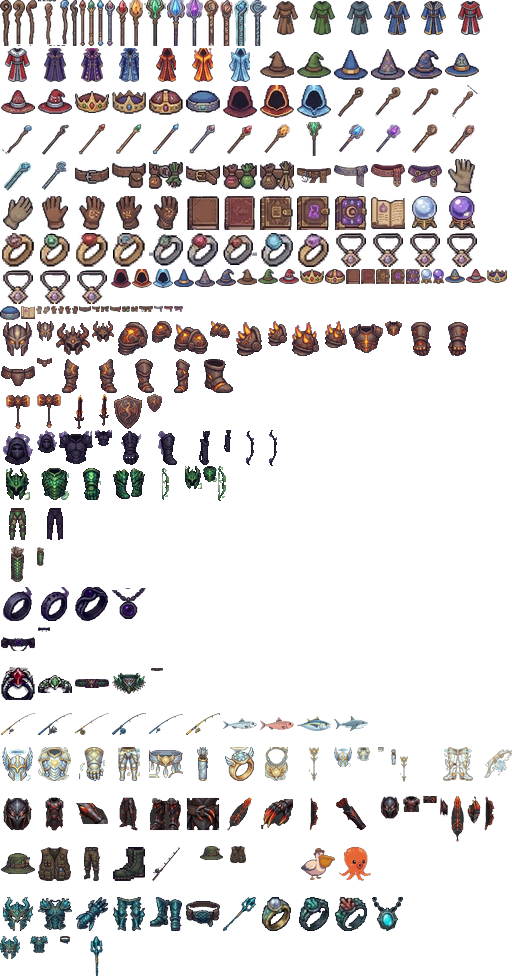
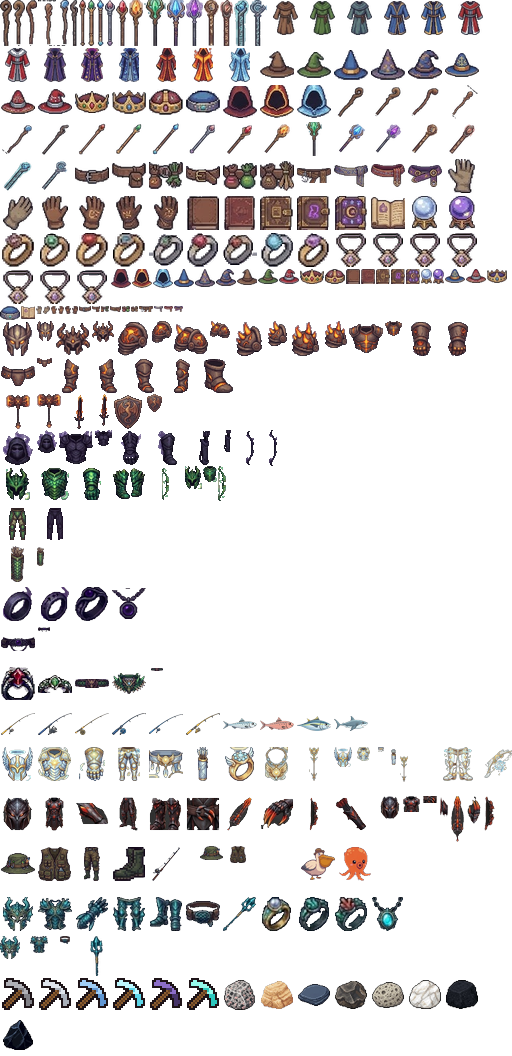
Add files via upload

diff --git a/eldoria/public/ui2.js b/eldoria/public/ui2.js
@@ -63,17 +63,17 @@
       if (!n) return null; got += g; tot += n;
       const h = el('h3', '', `${d.icon} ${d.name} · nivel ${d.lv} `); h.append(el('small', '', `${g} / ${n}`)); sec.append(h, grid); return sec;
     }).filter(Boolean);
-    const fdef = G.fish && G.fish.defs && G.fish.defs.col;
-    if (fdef) {                                                                      // sección de pesca (peces, tesoros, mascotas y set raro)
-      const sec = el('div', 'colsec'), have3 = colData.pesca || {}, grid = el('div', 'colgrid'); let g = 0;
-      for (const [id, ch] of fdef) {
+    for (const [title, defsCol, key] of [['⛏ Minería', G.mine && G.mine.defs && G.mine.defs.col, 'mineria'], ['🎣 Pesca', G.fish && G.fish.defs && G.fish.defs.col, 'pesca']]) {   // secciones de oficios (peces, rocas, gemas, mascotas...)
+      if (!defsCol) continue;
+      const sec = el('div', 'colsec'), have3 = colData[key] || {}, grid = el('div', 'colgrid'); let g = 0;
+      for (const [id, ch] of defsCol) {
         const it = G.items[id]; if (!it) continue; const c = have3[id], tile = el('div', 'coltile' + (c ? ' on' : ''));
         const ic = el('div', 'ico'); ic.append(X.iconNode ? X.iconNode(id) : it.icon || '?'); tile.append(ic, el('small', '', c ? it.name : '???'));
         if (c) { g++; tile.append(el('b', '', '×' + c)); }
-        tile.title = c ? `${it.name} — conseguido ${c} ${c === 1 ? 'vez' : 'veces'}` : ch >= 1 ? 'Aún no lo has pescado' : `Aún no te ha salido (${(ch * 100).toFixed(2)} % al pescar)`;
+        tile.title = c ? `${it.name} — conseguido ${c} ${c === 1 ? 'vez' : 'veces'}` : ch >= 1 ? 'Aún no lo has conseguido' : `Aún no te ha salido (${(ch * 100).toFixed(2)} %)`;
         grid.append(tile);
       }
-      const h = el('h3', '', '🎣 Pesca '); h.append(el('small', '', `${g} / ${fdef.length}`)); sec.append(h, grid); secs.unshift(sec);
+      const h = el('h3', '', title + ' '); h.append(el('small', '', `${g} / ${defsCol.length}`)); sec.append(h, grid); secs.unshift(sec);
     }
     b.append(el('p', 'colhead', `Objetos de jefes que ya te han salido: ${got} / ${tot}`), ...secs);
     if (!secs.length) b.append(el('p', '', 'Aún no hay jefes registrados.'));
@@ -87,7 +87,7 @@
     st.append(n); setTimeout(() => n.classList.add('out'), 4200); setTimeout(() => { n.remove(); colNext(); }, 4800);
   };
   X.handlers.colnew = (m) => { colQ.push(m); if (!colBusy) colNext(); };
-  wB.onOpen = () => { send({ t: 'col' }); send({ t: 'fish' }); renderCol(); };
+  wB.onOpen = () => { send({ t: 'col' }); send({ t: 'fish' }); send({ t: 'mine' }); renderCol(); };
   X.handlers.col = (m) => { colData = m.v || {}; if (!wB.m.hidden) renderCol(); };
 
   /* ============================ MISIONES ============================ */
@@ -449,7 +449,7 @@
   wF.onOpen = () => { send({ t: 'fish' }); renderFish(); };
 
   /* ---------- atajos ---------- */
-  const KEYS = { n: 'map', q: 'q', l: 'a', g: 's', r: 'r', p: 'm', f: 'c', b: 'b', o: 'o' };
+  const KEYS = { u: 'u', n: 'map', q: 'q', l: 'a', g: 's', r: 'r', p: 'm', f: 'c', b: 'b', o: 'o' };
   X.on('key', (k) => {
     if (KEYS[k]) { toggle(KEYS[k]); return true; }
     if (k === '1' || k === '2' || k === '3') { useSkill(+k - 1); return true; }
@@ -544,6 +544,11 @@
       const d = xi.nodes[type]; if (!d) continue;
       const cx = X.sxOf(x) + TS / 2, cy = X.syOf(y) + TS / 2, pulse = 1 + Math.sin(now / 420 + x * 3 + y) * 0.06;
       c.fillStyle = 'rgba(0,0,0,.3)'; c.beginPath(); c.ellipse(cx, cy + 10, 10, 3.5, 0, 0, 7); c.fill();
+      if (d.spr && X.SPR[d.spr] && X.sprReady()) {                                   // rocas de minería (sprites)
+        X.drawSpriteS(c, d.spr, 0, cx, cy + 12, false, 1.1);
+        if (G.mine && d.lvl > G.mine.lv) { c.font = 'bold 9px sans-serif'; c.textAlign = 'center'; c.fillStyle = '#ffb4a0'; c.strokeStyle = '#000'; c.lineWidth = 2.5; c.strokeText('⛏' + d.lvl, cx, cy - 8); c.fillText('⛏' + d.lvl, cx, cy - 8); }
+        continue;
+      }
       c.save(); c.translate(cx, cy + 2); c.scale(pulse, pulse); c.font = '20px "Segoe UI Emoji","Apple Color Emoji","Noto Color Emoji",sans-serif'; c.textAlign = 'center'; c.textBaseline = 'middle'; c.fillText(d.icon, 0, 0); c.restore();
       if (Math.sin(now / 300 + x * 7) > 0.88) { c.fillStyle = '#fff'; c.fillRect(cx + 7, cy - 9, 2, 2); }
     }
@@ -583,6 +588,66 @@
     if (cheb(G.me.x, G.me.y, gTarget.x, gTarget.y) <= 1) { send({ t: 'gather', id: gTarget.id }); gTarget.until = performance.now() + 900; }
   }
   setInterval(tickGather, 350);
+
+  /* ============================ MINERÍA ============================ */
+  const wMn = win('u', '⛏ Minería', true); mkBtn('⛏', 'Minería', 'u', 'u');
+  const msd = G.mine = { lv: 1, xp: 0, lo: 0, hi: 1, c: {}, defs: null };
+  const GEM_IC = { rubi: '🔴', zafiro: '🔵', esmeralda: '🟢', topacio: '🟡', amatista: '🟣', opalo: '🟠', diamante: '💎' };
+  const bestPickId = () => {
+    let best = '', rq = -1; const picks = (msd.defs && msd.defs.picks) || {};
+    for (const it of G.inv || []) { const r = it && picks[it[0]]; if (r && r.req <= msd.lv && r.req > rq) { rq = r.req; best = it[0]; } }
+    return best;
+  };
+  const mineLi = document.querySelector('#skills li[data-sk="mine"]');
+  function syncMineRow() {
+    if (!mineLi) return; const max = msd.defs ? msd.defs.max : 320, hi = msd.hi > msd.lo ? msd.hi : msd.lo + 1;
+    mineLi.querySelector('b').textContent = msd.lv; mineLi.title = `Nivel de minería ${msd.lv} / ${max} (clic para abrir la ventana de minería)`;
+    mineLi.querySelector('.bar i').style.width = (msd.lv >= max ? 100 : Math.max(0, Math.min(100, (msd.xp - msd.lo) / (hi - msd.lo) * 100))) + '%';
+  }
+  if (mineLi) { mineLi.style.cursor = 'pointer'; mineLi.addEventListener('click', () => toggle('u')); }
+  function renderMine() {
+    const b = wMn.body; b.textContent = ''; const d = msd.defs; if (!d) { b.append(el('p', '', 'Cargando…')); return; }
+    const pct = msd.lv >= d.max ? 100 : Math.max(0, Math.min(100, (msd.xp - msd.lo) / Math.max(1, msd.hi - msd.lo) * 100));
+    b.append(el('p', 'colhead', `Nivel de minería ${msd.lv} / ${d.max}  ·  ${fmt(msd.xp)} xp`));
+    const bar = el('div', 'fbarx'), fill = el('div', 'fbarf'); fill.style.width = pct + '%'; bar.append(fill); b.append(bar);
+    b.append(el('p', 'fhint', 'Compra un pico a Boris el Mercader (ciudad) y haz clic en una roca del mapa: caminarás hasta ella y la picarás. Cada roca pide un nivel de minería. Mejores picos minan más rápido, dan más piedra y atraen más gemas. Las gemas se engarzan en las ranuras de armas y armaduras (en una zona segura).'));
+    b.append(el('h3', '', 'Rocas y registro'));
+    const g = el('div', 'colgrid');
+    for (const id of d.order) {
+      const r = d.rocks[id], n = msd.c[id] || 0, ok = msd.lv >= r.lvl, tile = el('div', 'coltile' + (n ? ' on' : ''));
+      const ic = el('div', 'ico'); ic.append(X.iconNode ? X.iconNode(id) : '🪨'); tile.append(ic, el('small', '', n || ok ? r.name : '???'), el('small', '', ok ? `Nv ${r.lvl}` : `🔒 Nv ${r.lvl}`));
+      if (n) tile.append(el('b', '', '×' + n));
+      tile.title = `${r.name} · minería ${r.lvl} · ${r.xp} xp · gema ${(r.gem * 100).toFixed(1)}% (base) · ${r.zones.join(', ')}`;
+      g.append(tile);
+    }
+    b.append(g);
+    b.append(el('h3', '', 'Dónde minar'));
+    for (const id of d.order) {
+      const r = d.rocks[id], ok = msd.lv >= r.lvl, row = el('p', 'frow' + (ok ? '' : ' flock')), ic = el('span', 'fricon'); ic.append(X.iconNode ? X.iconNode(id) : '🪨');
+      row.append(ic, el('b', '', `${r.name} (Nv ${r.lvl}): `), r.zones.join(' · '), el('small', '', `  ·  gemas: ${r.pool.filter((v, i, a) => a.indexOf(v) === i).map((q) => GEM_IC[q] || q).join(' ')}`)); b.append(row);
+    }
+    b.append(el('h3', '', 'Gemas encontradas'));
+    const gg = el('div', 'colgrid');
+    for (const id of ['rubi', 'zafiro', 'esmeralda', 'topacio', 'amatista', 'opalo', 'diamante']) {
+      const n = msd.c[id] || 0, tile = el('div', 'coltile' + (n ? ' on' : '')), ic = el('div', 'ico'); ic.append(X.iconNode ? X.iconNode(id) : GEM_IC[id]);
+      tile.append(ic, el('small', '', n ? iname(id) : '???')); if (n) tile.append(el('b', '', '×' + n)); tile.title = (G.gems && G.gems[id] ? G.gems[id].desc : '') || iname(id); gg.append(tile);
+    }
+    b.append(gg);
+    b.append(el('h3', '', 'Picos'));
+    for (const [id, r] of Object.entries(d.picks)) { const ok = msd.lv >= r.req, row = el('p', 'frow' + (ok ? '' : ' flock')), ic = el('span', 'fricon'); ic.append(X.iconNode ? X.iconNode(id) : '⛏'); row.append(ic, `${r.name} — minería ${r.req} · velocidad ${Math.round(100 / r.speed)}% · gemas +${Math.round(r.gem * 100)}% · piedra extra ${Math.round(r.extra * 100)}% · ${fmt(r.price)} 🪙${have(id) ? ' ✔ lo tienes' : ''}`); b.append(row); }
+  }
+  X.handlers.mine = (m) => { Object.assign(msd, m); if (m.defs) msd.defs = m.defs; syncMineRow(); if (!wMn.m.hidden) renderMine(); if (!wB.m.hidden) renderCol(); };
+  wMn.onOpen = () => { send({ t: 'mine' }); renderMine(); };
+  // al picar: polvo y esquirlas de la roca + el pico en la mano (se balancea mientras minas)
+  X.on('fx', (f) => { if (f.k === 'mn') { X.burst(f.x, f.y, 'stone', 16, { sp: 4, up: 3, g: 5, life: 0.55, size: 2.6 }); X.ring(f.x, f.y, 'stone', 300, 18, 3); } });
+  const pkIc = {};
+  X.on('draw', (c, now) => {
+    if (!gTarget || !G.me || performance.now() > gTarget.until || cheb(G.me.x, G.me.y, gTarget.x, gTarget.y) > 1) return;
+    const id = bestPickId(); if (!id || !X.iconNode) return; const me = G.ents.get(G.id); if (!me) return;
+    const ic = (pkIc[id] && pkIc[id].width ? pkIc[id] : (pkIc[id] = X.iconNode(id))); if (!ic || ic.tagName !== 'CANVAS' || !ic.width) return;
+    const TS = X.TS, dir = gTarget.x < me.x ? -1 : 1, cx = X.sxOf(me.rx) + TS / 2 + dir * 5, cy = X.syOf(me.ry) + TS / 2 + 3, ang = -0.5 + (Math.sin(now / 95) * 0.5 + 0.5) * 1.5, k = 0.8;
+    c.save(); c.translate(cx, cy); c.scale(dir, 1); c.rotate(ang); c.imageSmoothingEnabled = false; c.drawImage(ic, -4 * k, -31 * k, 36 * k, 36 * k); c.restore();
+  });
 
   /* ============================ EFECTOS DE HABILIDADES ============================ */
   X.on('fx', (f) => {

diff --git a/eldoria/game/mining.js b/eldoria/game/mining.js
@@ -1,0 +1,100 @@
+'use strict';
+/**
+ * Minería: picos + rocas repartidas por el mapa (granito, pizarra, arenisca, basalto, obsidiana, mármol, pedernal y pómez).
+ * Habilidad propia (nivel 1-320), cada roca pide un nivel y da piedra, experiencia y la posibilidad de encontrar gemas
+ * para engarzar en las armas y el equipo. Los picos mejores minan más rápido y atraen más gemas.
+ */
+const { skillFromXp, skillXpFor } = require('./skills');
+const MINE_MAX = 320, XP_SCALE = 20;
+const mineLevel = (xp) => Math.min(MINE_MAX, skillFromXp(Math.max(0, xp) * XP_SCALE));
+const rnd = (a, b) => a + Math.floor(Math.random() * (b - a + 1));
+
+// roca: nivel de minería, experiencia, zonas donde aparece, cuántas, reaparición, probabilidad de gema y gemas posibles [gema, peso]
+const ROCKS = {
+  granito:   { name: 'Granito Rosado',    lvl: 1,   xp: 12,  zones: ['prado', 'colinas', 'bosque'],                     n: 42, respawn: 70000, gem: 0.03,  sell: 14,  pool: [['rubi', 10], ['zafiro', 10], ['esmeralda', 10], ['topacio', 10]] },
+  arenisca:  { name: 'Arenisca Dorada',   lvl: 1,   xp: 12,  zones: ['dunas', 'sabana', 'playa'],                       n: 42, respawn: 70000, gem: 0.03,  sell: 14,  pool: [['rubi', 10], ['zafiro', 10], ['esmeralda', 10], ['topacio', 10]] },
+  pizarra:   { name: 'Pizarra Azul',      lvl: 30,  xp: 60,  zones: ['pantano', 'catacumbas', 'minas', 'cumbres'],      n: 36, respawn: 80000, gem: 0.035, sell: 45,  pool: [['rubi', 10], ['zafiro', 10], ['esmeralda', 10], ['topacio', 10], ['amatista', 2]] },
+  pedernal:  { name: 'Pedernal Oscuro',   lvl: 60,  xp: 140,  zones: ['selva', 'bosque', 'abismo', 'minas'],             n: 32, respawn: 85000, gem: 0.04,  sell: 95,  pool: [['rubi', 10], ['zafiro', 10], ['esmeralda', 10], ['topacio', 10], ['amatista', 4]] },
+  pomez:     { name: 'Piedra Pómez',      lvl: 90,  xp: 260, zones: ['volcan', 'pantano', 'playa'],                     n: 30, respawn: 90000, gem: 0.045, sell: 170, pool: [['rubi', 10], ['zafiro', 10], ['esmeralda', 10], ['topacio', 10], ['amatista', 5], ['opalo', 1]] },
+  marmol:    { name: 'Mármol Blanco',     lvl: 120,  xp: 450, zones: ['cumbres', 'fortaleza', 'piramide', 'colinas'],    n: 28, respawn: 95000, gem: 0.05,  sell: 320, pool: [['rubi', 8], ['zafiro', 8], ['esmeralda', 8], ['topacio', 8], ['amatista', 6], ['opalo', 2], ['diamante', 1]] },
+  basalto:   { name: 'Basalto Negro',     lvl: 170,  xp: 800, zones: ['volcan', 'minas', 'piramide', 'abismo'],          n: 26, respawn: 100000, gem: 0.055, sell: 520, pool: [['amatista', 8], ['opalo', 3], ['diamante', 2], ['rubi', 5], ['zafiro', 5], ['esmeralda', 5]] },
+  obsidiana: { name: 'Obsidiana',         lvl: 220, xp: 1500, zones: ['cueva_arana', 'cueva', 'cueva_jade', 'cueva_nube', 'cueva_mar'], n: 18, respawn: 120000, gem: 0.07, sell: 900, pool: [['amatista', 6], ['opalo', 5], ['diamante', 4]] },
+};
+const ORDER = ['granito', 'arenisca', 'pizarra', 'pedernal', 'pomez', 'marmol', 'basalto', 'obsidiana'];
+// picos: nivel de minería para usarlos, velocidad (menos = más rápido), bonus de gemas y de piedra extra
+const PICKS = {
+  pico_piedra:    { name: 'Pico de Piedra',    spr: 'pk_piedra',    req: 1,   speed: 1.0,  gem: 0,    extra: 0,    price: 150 },
+  pico_hierro:    { name: 'Pico de Hierro',    spr: 'pk_hierro',    req: 30,  speed: 0.9,  gem: 0.1,  extra: 0.05, price: 900 },
+  pico_acero:     { name: 'Pico de Acero',     spr: 'pk_acero',     req: 60,  speed: 0.8,  gem: 0.2,  extra: 0.1,  price: 3200 },
+  pico_cristal:   { name: 'Pico de Cristal',   spr: 'pk_cristal',   req: 120,  speed: 0.7,  gem: 0.35, extra: 0.15, price: 9000 },
+  pico_obsidiana: { name: 'Pico de Obsidiana', spr: 'pk_obsidiana', req: 180,  speed: 0.6,  gem: 0.5,  extra: 0.2,  price: 26000 },
+  pico_abismo:    { name: 'Pico del Abismo',   spr: 'pk_abismo',    req: 240, speed: 0.5,  gem: 0.75, extra: 0.3,  price: 70000 },
+};
+const RARE_GEMS = new Set(['amatista', 'opalo', 'diamante']);
+const GEM_ICON = { rubi: '🔴', zafiro: '🔵', esmeralda: '🟢', topacio: '🟡', amatista: '🟣', opalo: '🟠', diamante: '💎' };
+
+function build(ITEMS_, SHOPS) {
+  const NODES = require('./extra').NODES;
+  for (const id of ORDER) {
+    const r = ROCKS[id];
+    ITEMS_[id] = { name: r.name, icon: '🪨', spr: 'k_' + id, type: 'misc', stack: true, sell: r.sell };
+    NODES['roca_' + id] = { icon: '🪨', name: r.name, rock: id, spr: 'rock_' + id, lvl: r.lvl, give: [[id, 1, 2]], zones: r.zones, n: r.n, respawn: r.respawn, xp: r.xp, gem: r.gem };
+  }
+  for (const [id, k] of Object.entries(PICKS)) ITEMS_[id] = { name: `${k.name} (minería ${k.req})`, icon: '⛏', spr: k.spr, type: 'misc', pick: 1, price: k.price, sell: Math.round(k.price / 4) };
+  SHOPS.boris.push(...Object.keys(PICKS));
+}
+
+module.exports = { build, ROCKS, PICKS, ORDER, MINE_MAX, install(Game) {
+  const { ITEMS, GEMS } = require('./data');
+  const world = require('./world');
+  const P = Game.prototype;
+  const have = (p, id) => p.inv.reduce((n, it) => n + (it && it.id === id ? it.qty : 0), 0);
+  const lvOf = (p) => mineLevel(p.ext.mine.xp);
+  const bestPick = (p, lv) => { let best = null; for (const id of Object.keys(PICKS)) if (have(p, id) && PICKS[id].req <= lv && (!best || PICKS[id].req > PICKS[best].req)) best = id; return best; };
+  const colList = () => ORDER.map((id) => [id, 1]).concat(['rubi', 'zafiro', 'esmeralda', 'topacio', 'amatista', 'opalo', 'diamante'].map((g) => [g, g === 'opalo' || g === 'diamante' ? 0.01 : 0.03]));
+
+  P.mineView = function (p) {
+    const m = p.ext.mine, lv = lvOf(p), rocks = {};
+    for (const [id, r] of Object.entries(ROCKS)) rocks[id] = { name: r.name, lvl: r.lvl, xp: r.xp, gem: r.gem, zones: r.zones.map((z) => (world.zoneById(z) || { name: z }).name), pool: r.pool.map((q) => q[0]) };
+    return { t: 'mine', lv, xp: m.xp, lo: Math.ceil(skillXpFor(lv) / XP_SCALE), hi: lv >= MINE_MAX ? Math.ceil(skillXpFor(lv) / XP_SCALE) : Math.ceil(skillXpFor(lv + 1) / XP_SCALE), c: m.c,
+      defs: { rocks, picks: PICKS, order: ORDER, max: MINE_MAX, scale: XP_SCALE, col: colList() } };
+  };
+  P.sendMine = function (p) { this.send(p, this.mineView(p)); };
+
+  P.mineRock = function (p, n, nd) {
+    const now = this.now; if (p.dead) return;
+    const lv = lvOf(p), pick = bestPick(p, lv);
+    if (!pick) { this.msgThrottle(p, 'nopick', Object.keys(PICKS).some((id) => have(p, id)) ? 'Tu nivel de minería es muy bajo para ese pico.' : '⛏ Necesitas un pico para minar: Boris el Mercader los vende en la ciudad.'); return; }
+    if (lv < nd.lvl) { this.msgThrottle(p, 'lowmine', `Esta roca (${nd.name}) necesita nivel de minería ${nd.lvl} (tienes ${lv}).`); return; }
+    const k = PICKS[pick], r = ROCKS[nd.rock], e = p.ext.mine;
+    p.nextGather = now + 1100 * k.speed; n.at = now + nd.respawn * (0.8 + Math.random() * 0.4);
+    const before = lv;
+    let q = rnd(1, 2) + (Math.random() < k.extra ? 1 : 0);
+    this.giveOrDrop(p, nd.rock, q); this.logDrop(p, 'mineria', nd.rock);
+    e.c[nd.rock] = (e.c[nd.rock] || 0) + q; e.xp += nd.xp;
+    this.fx.push({ k: 'd', x: p.x, y: p.y, v: `+${q} ${ITEMS[nd.rock].name}`, c: 'g' });
+    this.fx.push({ k: 'mn', x: n.x, y: n.y, r: nd.rock });
+    // gema: más probable con mejor pico y más nivel
+    const ch = r.gem * (1 + k.gem) * (1 + lv / 400);
+    if (Math.random() < ch) {
+      let t = r.pool.reduce((a, o) => a + o[1], 0) * Math.random(), g = r.pool[0][0];
+      for (const [id, w] of r.pool) { t -= w; if (t <= 0) { g = id; break; } }
+      this.giveOrDrop(p, g, 1); this.logDrop(p, 'mineria', g); e.c[g] = (e.c[g] || 0) + 1;
+      this.msgC(p, `${RARE_GEMS.has(g) ? '🌟 ¡RARO! ' : '💎 '}¡Encuentras ${ITEMS[g].name} en la roca!`, GEMS[g].col);
+      this.fx.push({ k: 'd', x: n.x, y: n.y, v: `${GEM_ICON[g]} ${ITEMS[g].name}`, c: 'g' });
+      if (RARE_GEMS.has(g)) this.broadcastChat(`⛏ ¡${p.name} ha encontrado ${ITEMS[g].name} minando ${nd.name}!`, 'k');
+    }
+    p.ext.gather++;
+    const after = lvOf(p); if (after > before) this.msgC(p, `⛏ ¡Tu nivel de minería sube a ${after}!`, '#ffd96a');
+    p.dirty.inv = true;
+    this.checkAch(p); this.sendMine(p); this.sendCol(p);
+  };
+
+  const H0 = P.handleExt;
+  P.handleExt = function (p, msg) {
+    if (msg.t === 'mine') { this.sendMine(p); return; }
+    return H0.call(this, p, msg);
+  };
+  const L0 = P.onLogin;
+  P.onLogin = function (p) { L0.call(this, p); this.sendMine(p); };
+} };

diff --git a/eldoria/test/logic2.js b/eldoria/test/logic2.js
@@ -143,7 +143,7 @@ ok('mercado: expira y devuelve el objeto por correo', () => {
   assert.equal(game.market().list.length, 0); assert.ok(s.p.inv.some((it) => it && it.id === 'arco_corto'));
 });
 ok('recolección y fabricación: nodos, recoger, receta, nivel de oficio', () => {
-  assert.ok(game.nodes.length > 100, 'hay puntos de recolección'); assert.ok(new Set(game.nodes.map((q) => q.type)).size === 4);
+  assert.ok(game.nodes.length > 100, 'hay puntos de recolección'); assert.ok(new Set(game.nodes.map((q) => q.type)).size === 12, 'oficios + 8 rocas');
   const { p } = login('Craft1'); const nd = game.nodes.find((q) => q.type === 'hierba');
   place(p, nd.x, nd.y); game.gather(p, nd.id);
   assert.ok(p.inv.some((it) => it && it.id === 'hierba_curativa')); assert.equal(p.ext.gather, 1);
@@ -485,6 +485,26 @@ ok('Leviatán Abisal: gruta inundada, set raro y sus 4 ataques (tornados, olas, 
   hp0 = p.hp; go(0); run(4000); assert.ok(game.fx.some((f) => f.k === 'bm') && p.hp < hp0, 'el rayo de agua golpea');
   go(3); assert.ok(m.shieldUntil > game.now, 'burbuja'); const h1 = m.hp; game.hurtMonster(m, 5000, p, game.now); assert.equal(m.hp, h1, 'inmune 5 s');
   run(5200); assert.ok(!m.shieldUntil); game.hurtMonster(m, 5000, p, game.now); assert.ok(m.hp < h1, 'la burbuja acaba');
+});
+
+ok('minería: picos, rocas por nivel, experiencia, gemas raras y colección', () => {
+  const M = require('../game/mining');
+  for (const id of M.ORDER) { assert.ok(ITEMS[id], id); assert.ok(game.nodes.some((q) => q.type === 'roca_' + id), 'hay rocas de ' + id); }
+  assert.equal(Object.keys(M.PICKS).length, 6); const SH = require('../game/data').SHOPS; assert.ok(SH.boris.includes('pico_piedra') && SH.boris.includes('pico_abismo'));
+  const sj = require('../public/sprites.json'), gj = require('../public/gear.json'); for (const id of M.ORDER) { assert.ok(sj['rock_' + id] && gj['i_k_' + id], 'gráficos de ' + id); } for (const k of Object.values(M.PICKS)) assert.ok(gj['i_' + k.spr]);
+  const { p, ws } = login('Mine1'); const nd = game.nodes.find((q) => q.type === 'roca_granito'); place(p, nd.x, nd.y); game.now += 5000;
+  game.gather(p, nd.id); assert.ok(!p.inv.some((it) => it && it.id === 'granito') && nd.at === 0, 'sin pico no se mina');
+  p.inv[0] = I.mk('pico_piedra', 1); const r0 = Math.random;
+  try {
+    Math.random = () => 0.5; game.gather(p, nd.id);
+    assert.ok(p.inv.some((it) => it && it.id === 'granito'), 'da granito'); assert.ok(p.ext.mine.xp > 0 && p.ext.mine.c.granito >= 1); assert.ok(nd.at > game.now, 'la roca se agota');
+    assert.ok(lastMsg(ws, 'mine').lv >= 1, 'se informa de la habilidad'); assert.ok(p.ext.col.mineria.granito, 'colección');
+    const ob = game.nodes.find((q) => q.type === 'roca_obsidiana'); place(p, ob.x, ob.y); game.now += 5000; game.gather(p, ob.id); assert.equal(ob.at, 0, 'nivel de minería insuficiente');
+    // con nivel y pico altos y suerte: sale gema rara y se anuncia
+    p.ext.mine.xp = 1e8; p.inv[1] = I.mk('pico_abismo', 1); Math.random = () => 0.0001; game.now += 5000; game.gather(p, ob.id);
+    assert.ok(['amatista', 'opalo', 'diamante'].some((g) => p.inv.some((it) => it && it.id === g)), 'gema rara'); assert.ok(p.ext.col.mineria.obsidiana);
+  } finally { Math.random = r0; }
+  assert.ok(game.extSave(p).mine.xp > 0 && game.extSave(p).col.mineria);
 });
 
 ok('tabletas de teletransporte: Boris las vende a 100k y llevan a la zona', () => {

diff --git a/eldoria/game/ext.js b/eldoria/game/ext.js
@@ -26,7 +26,7 @@ const PARTY_MAX = 5;
 const MARKET_MAX = 8, MARKET_FEE = 0.05, MARKET_HOURS = 72;
 const EVENT_EVERY = (parseFloat(process.env.EVENT_MIN) || 35) * 60000;
 
-const defExt = () => ({ q: {}, ach: {}, title: '', kt: 0, kills: {}, bosses: 0, pvp: 0, deaths: 0, quests: 0, crafts: 0, gather: 0, cxp: 0, events: 0, sold: 0, pet: '', mount: '', hadPet: 0, hadMount: 0, partyKills: 0, guild: '', grole: '', mail: [], grave: null, col: {}, fish: { xp: 0, c: {} } });
+const defExt = () => ({ q: {}, ach: {}, title: '', kt: 0, kills: {}, bosses: 0, pvp: 0, deaths: 0, quests: 0, crafts: 0, gather: 0, cxp: 0, events: 0, sold: 0, pet: '', mount: '', hadPet: 0, hadMount: 0, partyKills: 0, guild: '', grole: '', mail: [], grave: null, col: {}, fish: { xp: 0, c: {} }, mine: { xp: 0, c: {} } });
 
 function sanitizeExt(raw) {
   const e = defExt();
@@ -36,8 +36,9 @@ function sanitizeExt(raw) {
   if (raw.ach && typeof raw.ach === 'object') for (const [id, t] of Object.entries(raw.ach)) if (ACH_BY[id]) e.ach[id] = num(t, 1e15) || 1;
   if (raw.kills && typeof raw.kills === 'object') for (const [m, n] of Object.entries(raw.kills)) if (MONSTERS[m]) e.kills[m] = num(n);
   if (raw.grave && Number.isInteger(raw.grave.x) && Number.isInteger(raw.grave.y)) e.grave = { x: raw.grave.x, y: raw.grave.y, t: num(raw.grave.t, 1e15) };
-  if (raw.col && typeof raw.col === 'object') for (const [b, items] of Object.entries(raw.col)) if ((MONSTERS[b] || b === 'pesca') && items && typeof items === 'object') { e.col[b] = {}; for (const [id, n] of Object.entries(items)) if (ITEMS[id]) e.col[b][id] = num(n, 1e9) || 1; }
+  if (raw.col && typeof raw.col === 'object') for (const [b, items] of Object.entries(raw.col)) if ((MONSTERS[b] || b === 'pesca' || b === 'mineria') && items && typeof items === 'object') { e.col[b] = {}; for (const [id, n] of Object.entries(items)) if (ITEMS[id]) e.col[b][id] = num(n, 1e9) || 1; }
   if (raw.fish && typeof raw.fish === 'object') { e.fish.xp = num(raw.fish.xp, 1e9); if (raw.fish.c && typeof raw.fish.c === 'object') for (const [id, n] of Object.entries(raw.fish.c)) if (ITEMS[id]) e.fish.c[id] = num(n, 1e9); }
+  if (raw.mine && typeof raw.mine === 'object') { e.mine.xp = num(raw.mine.xp, 1e9); if (raw.mine.c && typeof raw.mine.c === 'object') for (const [id, n] of Object.entries(raw.mine.c)) if (ITEMS[id]) e.mine.c[id] = num(n, 1e9); }
   e.title = typeof raw.title === 'string' ? raw.title.slice(0, 30) : '';
   e.pet = ITEMS[raw.pet] && ITEMS[raw.pet].type === 'pet' ? raw.pet : '';
   e.mount = ITEMS[raw.mount] && ITEMS[raw.mount].type === 'mount' ? raw.mount : '';
@@ -672,6 +673,7 @@ module.exports = function install(Game) {
     const n = this.nodeById.get(id | 0), now = this.now;
     if (!n || now < n.at || now < p.nextGather || cheb(p.x, p.y, n.x, n.y) > 1) return;
     const nd = X.NODES[n.type];
+    if (nd.rock) return this.mineRock(p, n, nd);
     p.nextGather = now + 1100; n.at = now + nd.respawn * (0.8 + Math.random() * 0.4);
     const cl = craftLevel(p.ext.cxp);
     for (const [iid, a, b] of nd.give) {

diff --git a/eldoria/public/game.js b/eldoria/public/game.js
@@ -173,7 +173,7 @@
     arcane: ['255,255,255', '199,155,255', '106,58,216'], void: ['232,200,255', '138,58,216', '42,10,64'],
     storm: ['255,255,192', '255,225,74', '74,138,255'], poison: ['232,255,192', '143,208,74', '58,122,42'],
     dark: ['190,120,255', '95,40,150', '14,5,24'],
-    sun: ['255,250,210', '255,205,80', '214,140,30'], water: ['225,252,255', '70,200,225', '25,110,170'], magic: ['232,244,255', '134,193,234', '90,90,216'],
+    sun: ['255,250,210', '255,205,80', '214,140,30'], water: ['225,252,255', '70,200,225', '25,110,170'], stone: ['236,230,220', '165,155,145', '95,90,85'], magic: ['232,244,255', '134,193,234', '90,90,216'],
   };
   const WEAPON_ELEM = {
     baston_fuego: 'fire', arco_dragon: 'fire', arco_sol: 'sun', colmillo_hidra: 'poison',

diff --git a/eldoria/public/index.html b/eldoria/public/index.html
@@ -89,6 +89,7 @@
         <li data-sk="ranged"><span>🏹 Distancia</span><b></b><div class="bar mini"><i></i></div></li>
         <li data-sk="magic"><span>🔮 Magia</span><b></b><div class="bar mini"><i></i></div></li>
         <li data-sk="fish" title="Nivel de pesca (clic para abrir la ventana de pesca)"><span>🎣 Pesca</span><b></b><div class="bar mini"><i></i></div></li>
+        <li data-sk="mine" title="Nivel de minería (clic para abrir la ventana de minería)"><span>⛏ Minería</span><b></b><div class="bar mini"><i></i></div></li>
       </ul>
       <p class="fine" id="gemSum"></p>
     </section>

diff --git a/eldoria/game/data.js b/eldoria/game/data.js
@@ -487,6 +487,7 @@ require('./mage').build(ITEMS, SHOPS, MONSTERS);
   require('./leviatan').build(ITEMS, MONSTERS, X.LEVIATAN.type);
   require('./bosspets').build(ITEMS, MONSTERS);
   require('./fishing').build(ITEMS, SHOPS);
+  require('./mining').build(ITEMS, SHOPS);
   require('./tablets').build(ITEMS, SHOPS);
   SHOPS.brisa.push('mascota_lobito', 'mascota_murcielago', 'mascota_goblin', 'montura_lobo', 'montura_oso');
   const rare = [['lobo', 'mascota_lobito', 0.004], ['murcielago', 'mascota_murcielago', 0.003], ['goblin', 'mascota_goblin', 0.003], ['dragon', 'mascota_dragoncito', 0.01],

diff --git a/eldoria/game/game.js b/eldoria/game/game.js
@@ -1220,4 +1220,5 @@ class Game {
 
 require('./ext')(Game);
 require('./fishing').install(Game);
+require('./mining').install(Game);
 module.exports = { Game, NAME_RE, levelFromXp, xpForLevel, skillFromXp };

diff --git a/eldoria/README.md b/eldoria/README.md
@@ -230,3 +230,7 @@ Boris vende 11 tabletas (100 000 de oro cada una, de un solo uso): Ciudad, Bosqu
 - Ataques especiales: **tornados marinos** que se multiplican y vagan por la cueva (15 s), **olas** que barren la cueva en franjas avisadas, **rayo de bolas de agua** por la boca (3 pulsos que re-apuntan) y **escudo burbuja** de 5 s en el que es inmune.
 - Botín raro: Yelmo, Coraza, Manoplas, Grebas, Botas y Cinto del Abismo Marino, 3 anillos (perla, alga, coral), Amuleto del Corazón Marino y el Tridente del Leviatán (agua), además de la cría del Leviatán (mascota).
 - Corregido: las casillas de muro de la guarida de la araña (WEBW) no bloqueaban en el servidor.
+
+## Minería
+
+Habilidad nueva (tecla **U**). Boris vende los picos (piedra, hierro, acero, cristal, obsidiana, abismo): mejor pico = más rápido, más gemas y a veces doble piedra. 8 rocas repartidas por zonas y nivel: Granito y Arenisca (1-30), Pizarra (30-60), Pedernal (60-90), Pómez (90-120), Mármol (120-170), Basalto (170-220), Obsidiana (220-320, cuevas). Cada roca puede dar gemas (rubí, zafiro, esmeralda, topacio, amatista, ópalo, diamante) para engarzar en armas y armaduras. Sección propia en el registro de colección y anuncio global de gemas raras.
